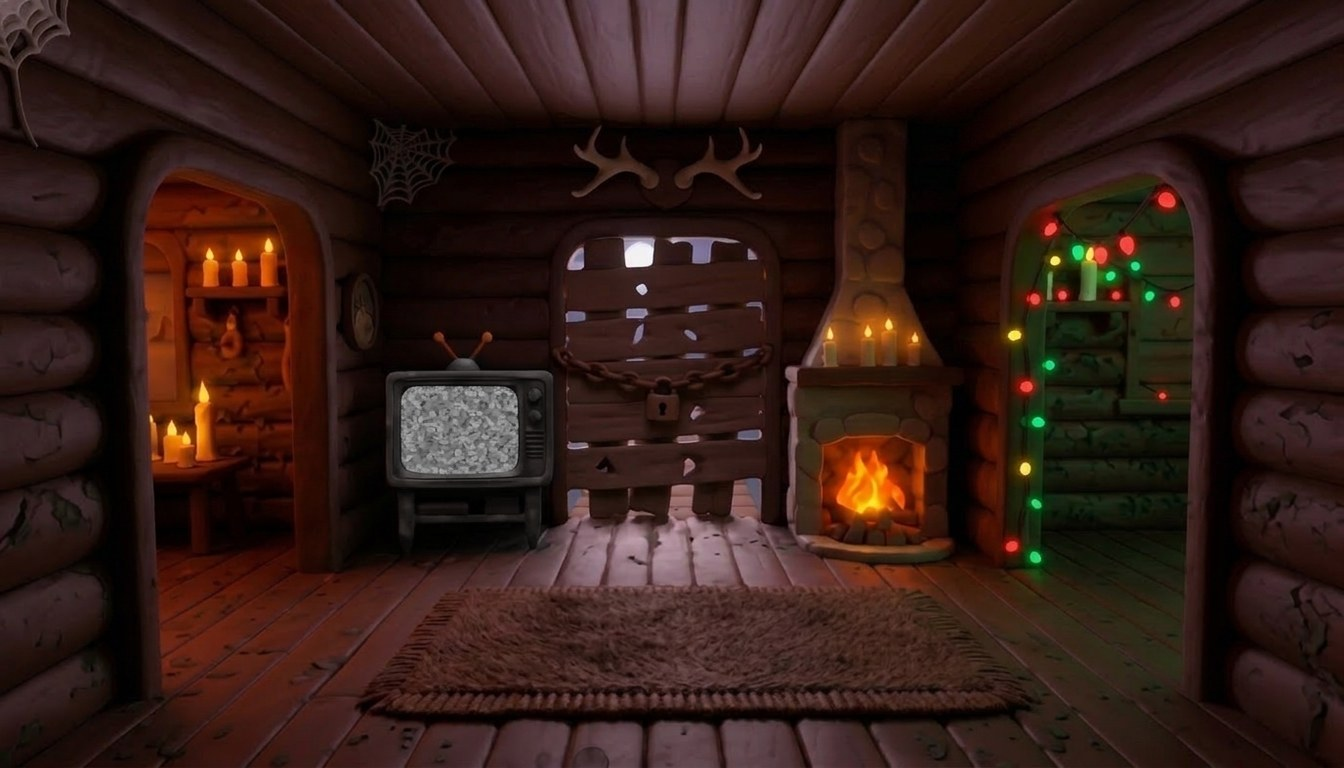
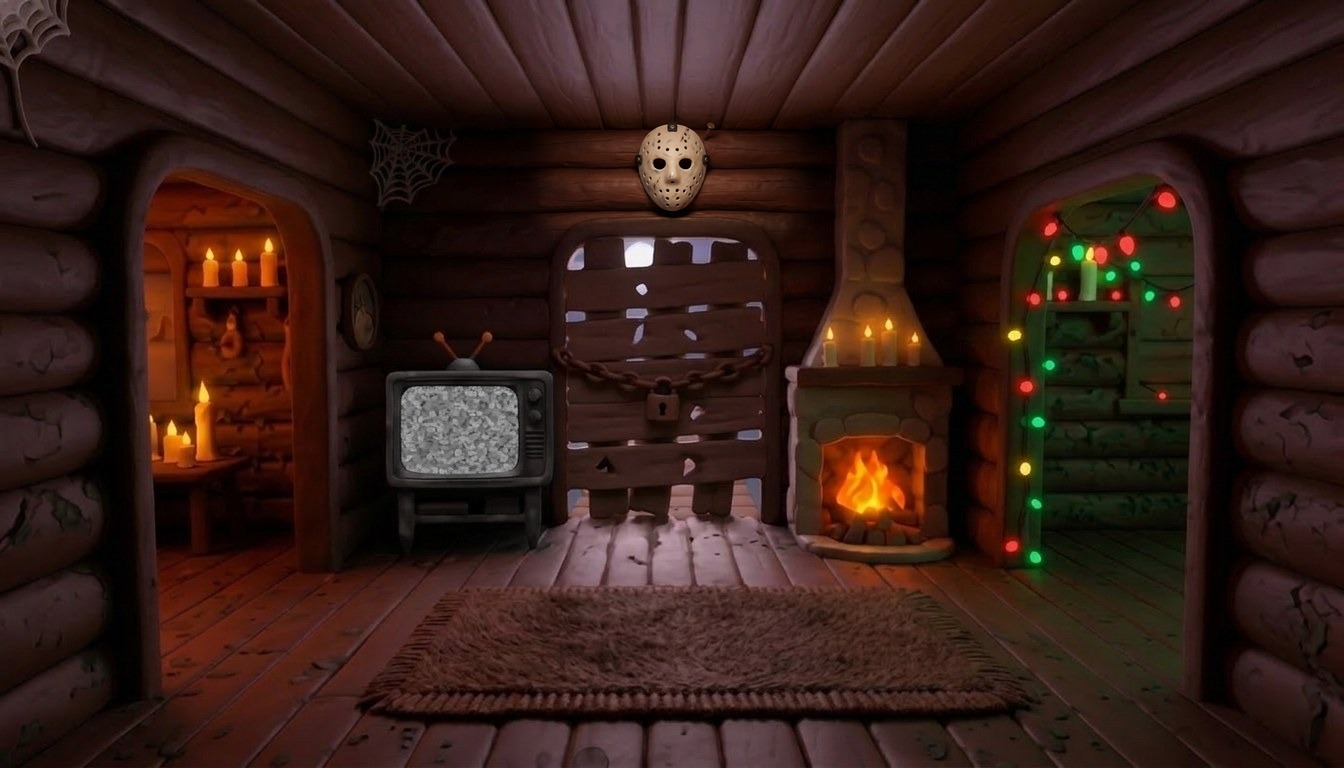
Cabin site: clay goalie mask replaces the antlers above the back door
Claude-Session: https://claude.ai/code/session_017UCt1yh6wM11RSMuh2VTku

Changed region(s): [[0.4062, 0.1562, 0.5938, 0.3125]]

diff --git a/docs/index.html b/docs/index.html
@@ -399,7 +399,7 @@ button{font:inherit;color:inherit}
     </section>
 
     <section class="scene" id="s-inside" data-crumb="The cabin" data-back="exterior">
-      <img class="bg" id="insideImg" src="img/inside.jpg?v=8" alt="Inside the clay log cabin, warm with candles and a fire: a candlelit archway on the left, a big clunky 90s TV hissing with static on a stand with a VCR, an archway strung with red and green lights on the right, and the back door open to the dock and lake" width="1344" height="768">
+      <img class="bg" id="insideImg" src="img/inside.jpg?v=9" alt="Inside the clay log cabin, warm with candles and a fire: a candlelit archway on the left, a big clunky 90s TV hissing with static on a stand with a VCR, an archway strung with red and green lights on the right, and the back door open to the dock and lake" width="1344" height="768">
       <div class="fx" id="fx-inside" aria-hidden="true"></div>
       <button class="secret" id="secret" style="left:44%;top:14%;width:12%;height:12%" aria-label="Antlers"></button>
       <button class="hot left" style="left:16%;top:50%" data-go="peddler" aria-label="Go left to the Peddler"><span class="ring"></span><span class="tag">The Peddler</span></button>
@@ -840,7 +840,7 @@ button{font:inherit;color:inherit}
   // ---- Ambient life: flickering candles, moving fire, breathing Christmas lights, live TV static ----
   (function(){
     var FX={
-      inside:{img:'img/inside.jpg?v=8',
+      inside:{img:'img/inside.jpg?v=9',
         candles:[[15.6,33,2.6],[17.8,33.5,2.4],[19.8,32,2.6],[15,51,3],[13,56.5,2.6],[14,57,2.4],[61.8,43,2.4],[64.6,42.5,2.4],[66.1,42.8,2.4],[68,43.5,2.4],[80.9,33,2.4]],
         halos:[[17,40,16,24],[14.5,55,12,16],[65,47,12,14],[81,34,8,10]],
         fire:[60.5,56,9,14.5], fireHalo:[65,66,24,22], clayFire:[61.9,56.9,5.9,10.6,1.25],
@@ -1200,7 +1200,7 @@ button{font:inherit;color:inherit}
   // After the holidays (George): the sign comes down and the Clayson sinks back to the bottom until Fri Aug 13, 2027.
   var LAKE_OPEN=new Date()>=new Date(2027,0,2);
   if(LAKE_OPEN){
-    $('insideImg').src='img/inside-open.jpg?v=8';
+    $('insideImg').src='img/inside-open.jpg?v=9';
     $('dockImg').alt='Layered clay lake view from the dock: stacked mountains, puffy clay clouds, calm empty water past the bare dock posts';
     var ss=$('signSpot'); ss.style.left='30%'; ss.style.top='60%'; ss.style.width='30%'; ss.style.height='15%'; ss.setAttribute('aria-label','Look out over the lake');
     $('dockLore').textContent='The sign is down and the chain is gone. The holidays are over, and the Clayson has sunk back to the bottom of the lake to rest. He won\u2019t surface again until Friday, August 13, 2027.';

diff --git a/site/world/index.html b/site/world/index.html
@@ -399,7 +399,7 @@ button{font:inherit;color:inherit}
     </section>
 
     <section class="scene" id="s-inside" data-crumb="The cabin" data-back="exterior">
-      <img class="bg" id="insideImg" src="img/inside.jpg?v=8" alt="Inside the clay log cabin, warm with candles and a fire: a candlelit archway on the left, a big clunky 90s TV hissing with static on a stand with a VCR, an archway strung with red and green lights on the right, and the back door open to the dock and lake" width="1344" height="768">
+      <img class="bg" id="insideImg" src="img/inside.jpg?v=9" alt="Inside the clay log cabin, warm with candles and a fire: a candlelit archway on the left, a big clunky 90s TV hissing with static on a stand with a VCR, an archway strung with red and green lights on the right, and the back door open to the dock and lake" width="1344" height="768">
       <div class="fx" id="fx-inside" aria-hidden="true"></div>
       <button class="secret" id="secret" style="left:44%;top:14%;width:12%;height:12%" aria-label="Antlers"></button>
       <button class="hot left" style="left:16%;top:50%" data-go="peddler" aria-label="Go left to the Peddler"><span class="ring"></span><span class="tag">The Peddler</span></button>
@@ -840,7 +840,7 @@ button{font:inherit;color:inherit}
   // ---- Ambient life: flickering candles, moving fire, breathing Christmas lights, live TV static ----
   (function(){
     var FX={
-      inside:{img:'img/inside.jpg?v=8',
+      inside:{img:'img/inside.jpg?v=9',
         candles:[[15.6,33,2.6],[17.8,33.5,2.4],[19.8,32,2.6],[15,51,3],[13,56.5,2.6],[14,57,2.4],[61.8,43,2.4],[64.6,42.5,2.4],[66.1,42.8,2.4],[68,43.5,2.4],[80.9,33,2.4]],
         halos:[[17,40,16,24],[14.5,55,12,16],[65,47,12,14],[81,34,8,10]],
         fire:[60.5,56,9,14.5], fireHalo:[65,66,24,22], clayFire:[61.9,56.9,5.9,10.6,1.25],
@@ -1200,7 +1200,7 @@ button{font:inherit;color:inherit}
   // After the holidays (George): the sign comes down and the Clayson sinks back to the bottom until Fri Aug 13, 2027.
   var LAKE_OPEN=new Date()>=new Date(2027,0,2);
   if(LAKE_OPEN){
-    $('insideImg').src='img/inside-open.jpg?v=8';
+    $('insideImg').src='img/inside-open.jpg?v=9';
     $('dockImg').alt='Layered clay lake view from the dock: stacked mountains, puffy clay clouds, calm empty water past the bare dock posts';
     var ss=$('signSpot'); ss.style.left='30%'; ss.style.top='60%'; ss.style.width='30%'; ss.style.height='15%'; ss.setAttribute('aria-label','Look out over the lake');
     $('dockLore').textContent='The sign is down and the chain is gone. The holidays are over, and the Clayson has sunk back to the bottom of the lake to rest. He won\u2019t surface again until Friday, August 13, 2027.';

diff --git a/site/world/page.html b/site/world/page.html
@@ -394,7 +394,7 @@ button{font:inherit;color:inherit}
     </section>
 
     <section class="scene" id="s-inside" data-crumb="The cabin" data-back="exterior">
-      <img class="bg" id="insideImg" src="img/inside.jpg?v=8" alt="Inside the clay log cabin, warm with candles and a fire: a candlelit archway on the left, a big clunky 90s TV hissing with static on a stand with a VCR, an archway strung with red and green lights on the right, and the back door open to the dock and lake" width="1344" height="768">
+      <img class="bg" id="insideImg" src="img/inside.jpg?v=9" alt="Inside the clay log cabin, warm with candles and a fire: a candlelit archway on the left, a big clunky 90s TV hissing with static on a stand with a VCR, an archway strung with red and green lights on the right, and the back door open to the dock and lake" width="1344" height="768">
       <div class="fx" id="fx-inside" aria-hidden="true"></div>
       <button class="secret" id="secret" style="left:44%;top:14%;width:12%;height:12%" aria-label="Antlers"></button>
       <button class="hot left" style="left:16%;top:50%" data-go="peddler" aria-label="Go left to the Peddler"><span class="ring"></span><span class="tag">The Peddler</span></button>
@@ -835,7 +835,7 @@ button{font:inherit;color:inherit}
   // ---- Ambient life: flickering candles, moving fire, breathing Christmas lights, live TV static ----
   (function(){
     var FX={
-      inside:{img:'img/inside.jpg?v=8',
+      inside:{img:'img/inside.jpg?v=9',
         candles:[[15.6,33,2.6],[17.8,33.5,2.4],[19.8,32,2.6],[15,51,3],[13,56.5,2.6],[14,57,2.4],[61.8,43,2.4],[64.6,42.5,2.4],[66.1,42.8,2.4],[68,43.5,2.4],[80.9,33,2.4]],
         halos:[[17,40,16,24],[14.5,55,12,16],[65,47,12,14],[81,34,8,10]],
         fire:[60.5,56,9,14.5], fireHalo:[65,66,24,22], clayFire:[61.9,56.9,5.9,10.6,1.25],
@@ -1195,7 +1195,7 @@ button{font:inherit;color:inherit}
   // After the holidays (George): the sign comes down and the Clayson sinks back to the bottom until Fri Aug 13, 2027.
   var LAKE_OPEN=new Date()>=new Date(2027,0,2);
   if(LAKE_OPEN){
-    $('insideImg').src='img/inside-open.jpg?v=8';
+    $('insideImg').src='img/inside-open.jpg?v=9';
     $('dockImg').alt='Layered clay lake view from the dock: stacked mountains, puffy clay clouds, calm empty water past the bare dock posts';
     var ss=$('signSpot'); ss.style.left='30%'; ss.style.top='60%'; ss.style.width='30%'; ss.style.height='15%'; ss.setAttribute('aria-label','Look out over the lake');
     $('dockLore').textContent='The sign is down and the chain is gone. The holidays are over, and the Clayson has sunk back to the bottom of the lake to rest. He won\u2019t surface again until Friday, August 13, 2027.';
